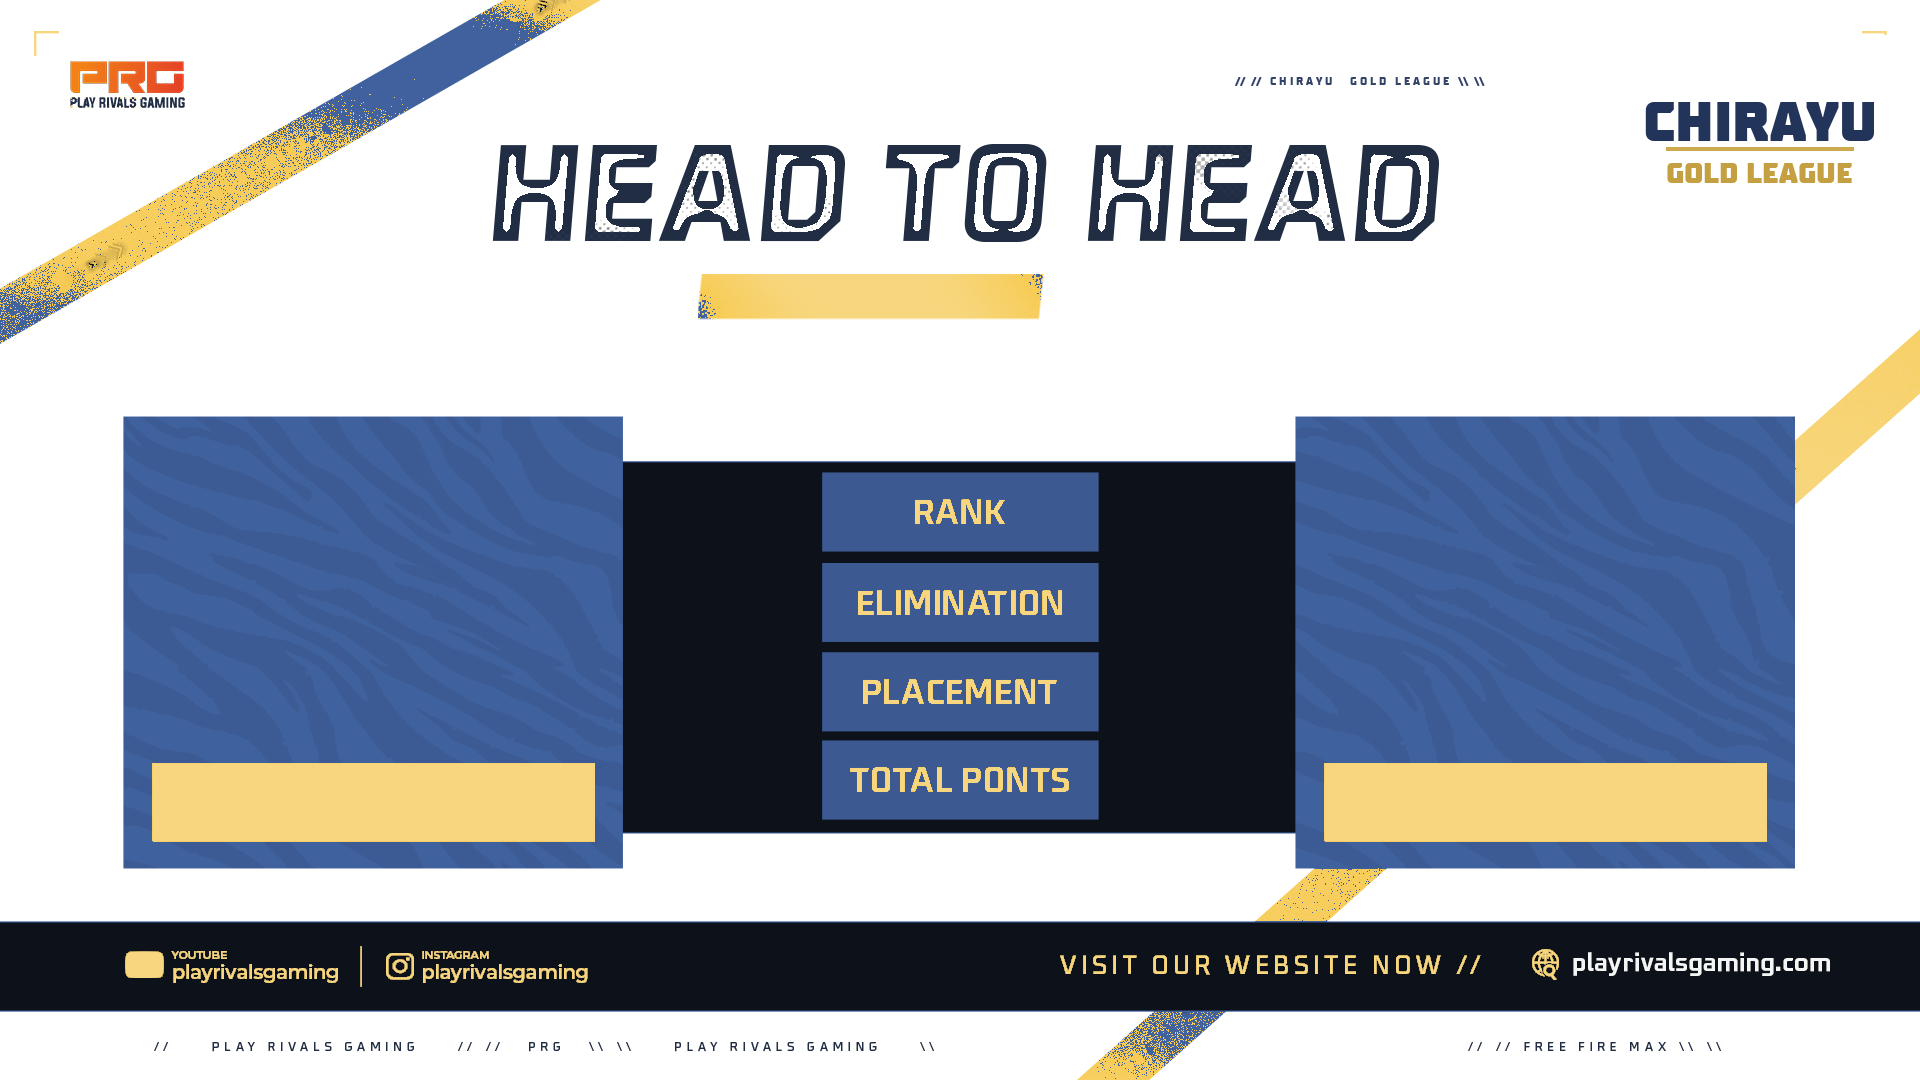
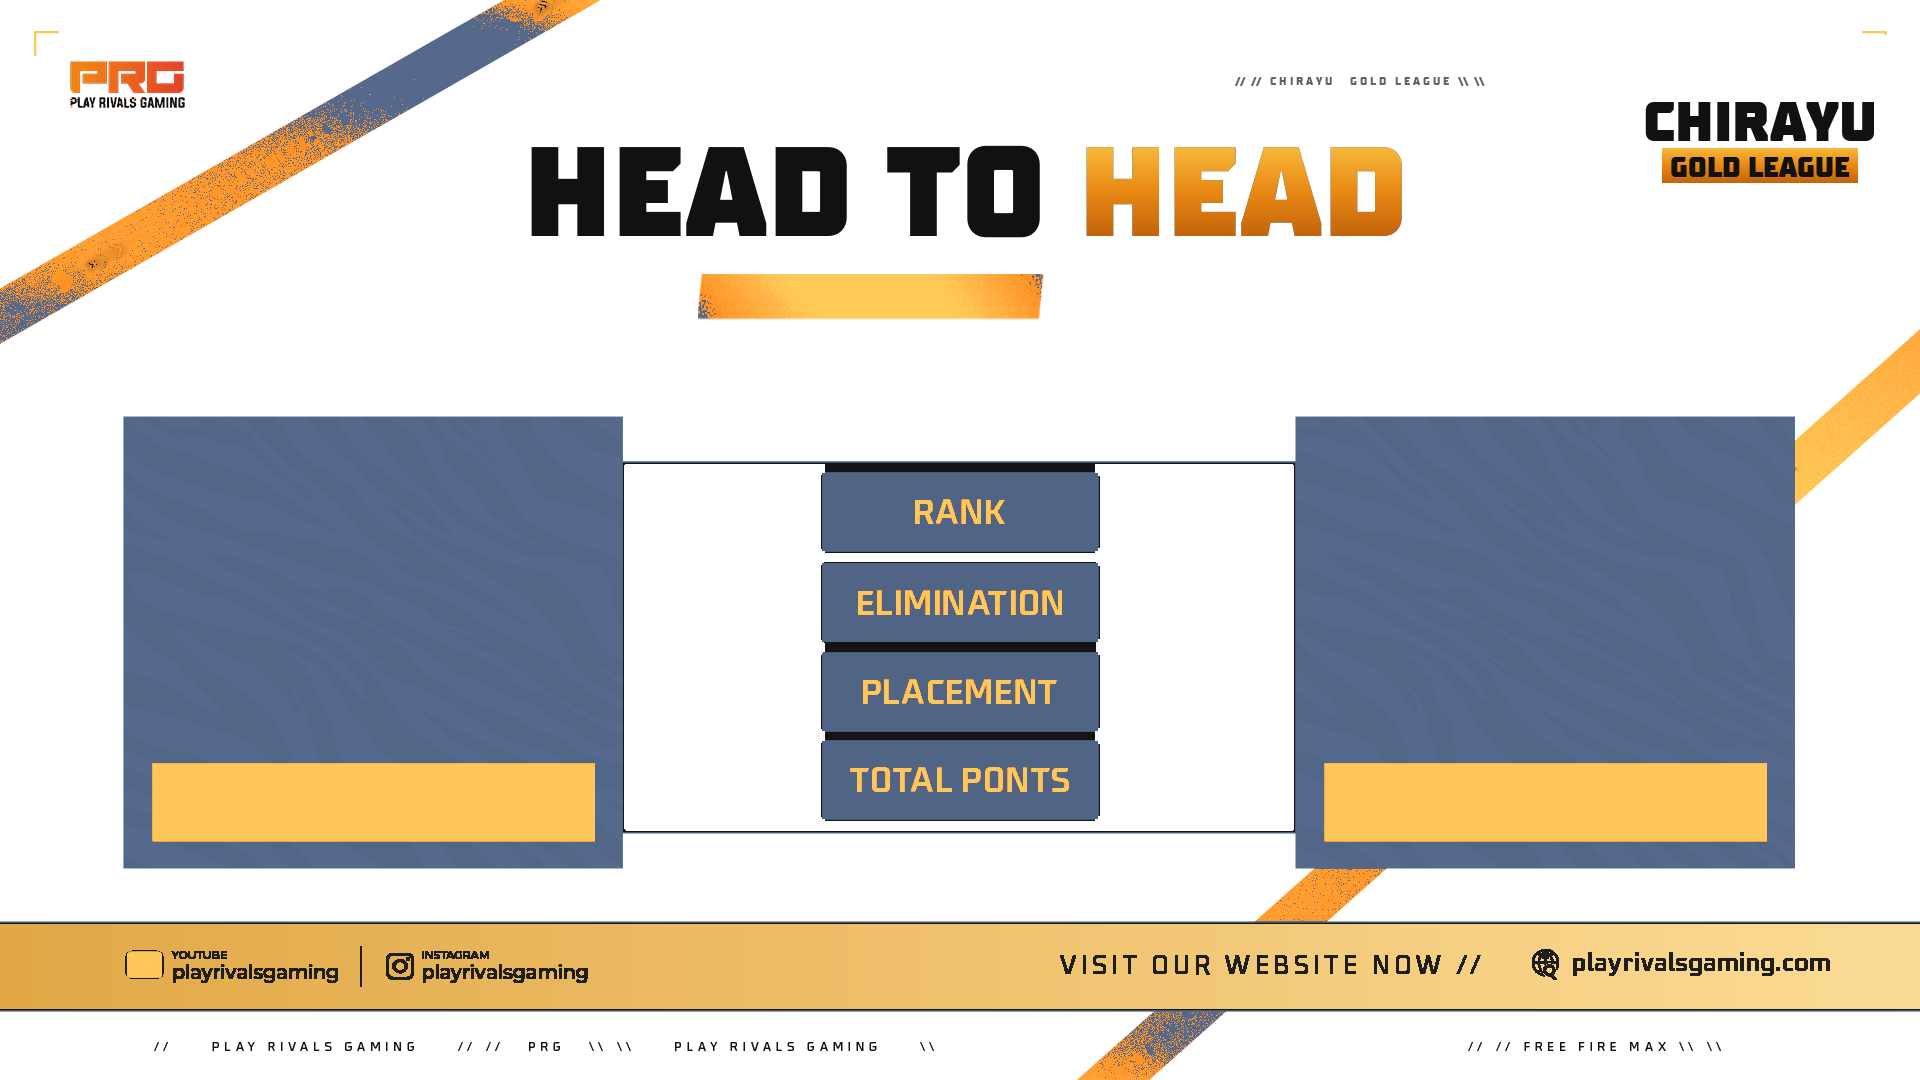
Chirayu Gold League in the league's own look
From its Overall Standings screen: white rows edged in gold, slate navy
cells with white type, gold-brown figures, orange-gold highlights (TOTAL
cell, name bars), black titles with the last word in orange-gold, a gold
ticker. Art regenerated from the SS3 package (same files, same
geometry); kit and page inks to match; alive rows white to the slash,
legend redrawn.

diff --git a/overlay/ff_theme.css b/overlay/ff_theme.css
@@ -51,19 +51,24 @@ body.still *{animation:none !important;transition:none !important;}
 .ss3 .ff-text{color:#fff;font-family:'SMXB',Arial,sans-serif;text-transform:uppercase;}
 .ss3 .ff-muted{color:#ffd9d0;font-family:'SMXB',Arial,sans-serif;text-transform:uppercase;}
 
-/* ---- CHIRAYU GOLD LEAGUE: the SS3 cards in the Chirayu colours ----
-   Same layout; the frame and zebra are the SS3 ones recoloured (navy /
-   slate blue for the red, gold for the yellow), the title navy because
-   it sits on the event's light background. */
-body.chirayu{ --ss3-red:#3e5a96; --ss3-label:#2b4272; --ss3-yellow:#f3d77e; --ss3-bar:#f3d98a; --ss3-black:#131d32; }
+/* ---- CHIRAYU GOLD LEAGUE: the SS3 layouts in the league's own look ----
+   From its Overall Standings screen: white rows edged in gold, slate navy
+   header cells with white type, gold-brown figures, orange-gold gradients
+   for the highlights, titles in black with the last word in orange-gold
+   (ffFitTitle wraps it in .w2). */
+body.chirayu{ --ss3-red:#4e6181; --ss3-label:#4e6181; --ss3-yellow:#a8692a; --ss3-bar:#f2b54a; --ss3-black:#ffffff;
+  --cg-gold:linear-gradient(180deg,#f7b83a 0%,#e88914 55%,#c4650c 100%); }
 .chirayu .ff-frame{background-image:url('assets/freefire/kit/chirayu_frame.png');}
-.chirayu .ff-title{
-  background:linear-gradient(180deg,#22345a 0%,#22345a 46%,rgba(34,52,90,0) 82%),
-             radial-gradient(circle,#22345a 0 1.7px,transparent 2.1px) 0 0/7px 7px;
-  -webkit-background-clip:text;background-clip:text;}
-.chirayu .ff-zebra{background:url('assets/freefire/kit/chirayu_zebra.png') center/cover,var(--ss3-red);}
-.chirayu .ff-black{box-shadow:inset 0 0 0 3px #3e5a96;}
-.chirayu .ff-muted{color:#c9d5ea;}
+.chirayu .ff-title{font-family:'SMBlack',Arial,sans-serif;font-style:normal;color:#111;background:none;
+  -webkit-background-clip:border-box;background-clip:border-box;letter-spacing:0;}
+.chirayu .ff-title .w2{background:var(--cg-gold);-webkit-background-clip:text;background-clip:text;color:transparent;}
+.chirayu .ff-zebra{background:url('assets/freefire/kit/chirayu_zebra.png') center/cover,#4e6181;}
+.chirayu .ff-black{background:#fff;box-shadow:inset 4px 0 0 #e3a23a, 0 2px 10px rgba(20,30,50,.14);}
+.chirayu .ff-yellow{background:linear-gradient(90deg,#e08a1e 0%,#f6c45c 55%,#fde3a0 100%);color:#111;}
+.chirayu .ff-label{background:#4e6181;color:#fff;}
+.chirayu .ff-num{color:#a8692a;}
+.chirayu .ff-text{color:#262626;}
+.chirayu .ff-muted{color:#7a8597;}
 
 /* ---- ARROW ---- */
 .arrow .ff-frame{position:absolute;left:150px;top:100px;width:1620px;height:880px;

diff --git a/overlay/freefire_lobby_status.html b/overlay/freefire_lobby_status.html
@@ -93,17 +93,17 @@
                                       rgba(255,30,30,.15) 62%, #ff1e1e 100%);
   }
   body[data-theme="ss3"] .slot{ border-color:rgba(255,30,30,.35); }
-  body.chirayu[data-theme="ss3"]{ --amber:#f3d77e; --amber-deep:#cdaa4e; --green-0:#1c2b4d; --green-1:#0f1728;
+  body.chirayu[data-theme="ss3"]{ --amber:#f6c45c; --amber-deep:#e8a33a; --green-0:#4e6181; --green-1:#33415d;
     --panel:#17233d; --panel-lit:#22345a; --muted:#9fb0cc; }
   body.chirayu[data-theme="ss3"] #stage{
     background:
-      radial-gradient(120% 180% at 50% 0%, rgba(62,90,150,.45) 0%, rgba(15,23,40,0) 68%),
-      repeating-linear-gradient(115deg, rgba(127,151,187,.07) 0 2px, transparent 2px 18px),
+      radial-gradient(120% 180% at 50% 0%, rgba(110,130,165,.40) 0%, rgba(51,65,93,0) 68%),
+      repeating-linear-gradient(115deg, rgba(255,255,255,.05) 0 2px, transparent 2px 18px),
       linear-gradient(180deg, var(--green-0) 0%, var(--green-1) 100%);
-    border-top-color:#cdaa4e;
+    border-top-color:#e8a33a;
   }
   body.chirayu[data-theme="ss3"] #stage::before{
-    background:linear-gradient(90deg, #cdaa4e 0%, rgba(205,170,78,.15) 38%, rgba(205,170,78,.15) 62%, #cdaa4e 100%);
+    background:linear-gradient(90deg, #e8a33a 0%, rgba(232,163,58,.15) 38%, rgba(232,163,58,.15) 62%, #e8a33a 100%);
   }
   body.chirayu[data-theme="ss3"] .slot{ border-color:rgba(127,151,187,.35); }
   /* Tactic Sans runs wider than Supermolot: "YET TO JOIN" was clipped. */

diff --git a/overlay/freefire_map.html b/overlay/freefire_map.html
@@ -35,7 +35,7 @@
     --accent:#f7941d; --zone:#ffffff; --next:#ffe97a; --pin:#ee1c25;
   }
   body.ss3{ --surface:#0e0e0e; --accent:#ff1e1e; --text-3:#b39b9b; }
-  body.ss3.chirayu{ --surface:#131d32; --accent:#d4b25a; --next:#f3d77e; --text-2:#c9d5ea; --text-3:#9fb0cc; }
+  body.ss3.chirayu{ --surface:#33415d; --accent:#e8a33a; --next:#f6c45c; --text-2:#dbe2ee; --text-3:#aeb9cc; }
   body.ss3, body.ss3 svg text, body.tpl-ss3, body.tpl-ss3 svg text{ font-family:'TacticSans',Arial,sans-serif !important; }
 
   html,body{margin:0;padding:0;background:transparent;overflow:hidden;}
@@ -62,9 +62,9 @@
                repeating-linear-gradient(115deg, rgba(255,30,30,.05) 0 2px, transparent 2px 22px), var(--surface);
   }
   body.ss3.chirayu #panel.bg{
-    background:radial-gradient(120% 90% at 50% 0%, rgba(62,90,150,.45) 0%, rgba(19,29,50,0) 60%),
-               repeating-linear-gradient(115deg, rgba(127,151,187,.06) 0 2px, transparent 2px 22px), var(--surface);
-    border-top-color:#cdaa4e;
+    background:radial-gradient(120% 90% at 50% 0%, rgba(110,130,165,.40) 0%, rgba(51,65,93,0) 60%),
+               repeating-linear-gradient(115deg, rgba(255,255,255,.05) 0 2px, transparent 2px 22px), var(--surface);
+    border-top-color:#e8a33a;
   }
   #panel:not(.bg) .side{ text-shadow:0 2px 6px rgba(0,0,0,.85); }
   #stdMap{width:808px;height:808px;flex:0 0 808px;position:relative;}

diff --git a/overlay/freefire_alive_status.html b/overlay/freefire_alive_status.html
@@ -879,15 +879,18 @@ const LAYOUTS = {
    SS3's Graphic Fixing nudges (placementKey "ss3"): same geometry. */
 LAYOUTS.CHIRAYU = (() => {
   const c = JSON.parse(JSON.stringify(LAYOUTS.ss3));
-  c.accent = "#d4b25a"; c.accentGlow = "rgba(212, 178, 90, 0.9)";
-  c.accentFlash = ["rgba(212, 178, 90, 0)", "rgba(212, 178, 90, 0.5)"];
-  c.pipBars = Object.assign({}, c.pipBars, { dead: "#5d6f8f" });
-  if(c.elimCard) c.elimCard.rank.ink = "#f3d77e";
+  // the league's look: rank and name on the white part of the row in its
+  // gold-brown, the eliminations white on the slate
+  c.rankInk = "#7d6545"; c.nameInk = "#9a6428"; c.killsInk = "#ffffff";
+  c.accent = "#e8a33a"; c.accentGlow = "rgba(232, 163, 58, 0.9)";
+  c.accentFlash = ["rgba(232, 163, 58, 0)", "rgba(232, 163, 58, 0.5)"];
+  c.pipBars = Object.assign({}, c.pipBars, { dead: "#2c3850", unknown: "rgba(255,255,255,0.32)" });
+  if(c.elimCard) c.elimCard.rank.ink = "#111111";
   if(c.achievement){
-    c.achievement.title.ink = "#22345a";
-    c.achievement.label.ink = "#f3d77e";
+    c.achievement.title.ink = "#111111";
+    c.achievement.label.ink = "#f6c45c";
   }
-  if(c.top4) c.top4.win.ink = "#22345a";
+  if(c.top4) c.top4.win.ink = "#111111";
   return c;
 })();
 

diff --git a/overlay/freefire_match_insights.html b/overlay/freefire_match_insights.html
@@ -87,10 +87,10 @@
   body.air.ss3 table, body.air.ss3 th{font-family:'SMXB',Arial,sans-serif;}
   body.air.arrow table, body.air.arrow th{font-family:'SMBI',Arial,sans-serif;}
   body.air.ss3 .hs, body.air.ss3 .gloo{color:#fff694;} body.air.ss3 .team, body.air.ss3 th{color:#ffd0c8;}
-  body.air.ss3.chirayu .card{background:#131d32;box-shadow:inset 0 0 0 3px #3e5a96;}
-  body.air.ss3.chirayu .card h2{background:#2b4272;color:#f3d77e;}
-  body.air.ss3.chirayu .hs, body.air.ss3.chirayu .gloo{color:#f3d77e;}
-  body.air.ss3.chirayu .team, body.air.ss3.chirayu th{color:#c9d5ea;}
+  body.air.ss3.chirayu .card{background:#fff;box-shadow:inset 4px 0 0 #e3a23a, 0 2px 10px rgba(20,30,50,.14);color:#262626;}
+  body.air.ss3.chirayu .card h2{background:#4e6181;color:#fff;}
+  body.air.ss3.chirayu .hs, body.air.ss3.chirayu .gloo{color:#a8692a;}
+  body.air.ss3.chirayu .team, body.air.ss3.chirayu th{color:#5e6b80;}
   body.air.arrow .hs, body.air.arrow .gloo{color:#ffb21e;} body.air.arrow .team, body.air.arrow th{color:#cfe3c5;}
   /* the circle map: square, inside its panel */
   body.air canvas{margin:0 auto;border:none;}

diff --git a/overlay/freefire_team_graphs.html b/overlay/freefire_team_graphs.html
@@ -73,15 +73,15 @@
     border-top-color:#ff1e1e;
   }
   body.ss3 .kicker::before{ background:#ff1e1e; }
-  body.ss3.chirayu{ --surface:#131d32; --amber:#f3d77e; --grid:#2a3a5c; --text-3:#9fb0cc; }
+  body.ss3.chirayu{ --surface:#33415d; --amber:#f6c45c; --grid:#4a5a78; --text-3:#aeb9cc; }
   body.ss3.chirayu #panel.bg{
     background:
-      radial-gradient(120% 90% at 50% 0%, rgba(62,90,150,.45) 0%, rgba(19,29,50,0) 60%),
-      repeating-linear-gradient(115deg, rgba(127,151,187,.06) 0 2px, transparent 2px 22px),
+      radial-gradient(120% 90% at 50% 0%, rgba(110,130,165,.40) 0%, rgba(51,65,93,0) 60%),
+      repeating-linear-gradient(115deg, rgba(255,255,255,.05) 0 2px, transparent 2px 22px),
       var(--surface);
-    border-top-color:#cdaa4e;
+    border-top-color:#e8a33a;
   }
-  body.ss3.chirayu .kicker::before{ background:#cdaa4e; }
+  body.ss3.chirayu .kicker::before{ background:#e8a33a; }
   body.ss3 .title{ font-style:normal; }
 
   html,body{margin:0;padding:0;background:transparent;overflow:hidden;}

diff --git a/overlay/freefire_scoreboard.html b/overlay/freefire_scoreboard.html
@@ -86,6 +86,11 @@
   /* the top three */
   .ss3 .th-row.top .th-rk{background:var(--ss3-bar);color:#111;}
   .ss3 .th-row:not(.top) .th-rk{background:var(--ss3-label);color:var(--ss3-yellow);}
+  /* CHIRAYU: the TOTAL cell shades into orange-gold at its right, as the
+     league's own table does; the slate rank cells take white figures */
+  .chirayu .th-row .th-n.tot{color:#6e3a08;background:linear-gradient(90deg,rgba(255,255,255,0) 0%,#f6c45c 62%,#e08a1e 100%);}
+  .chirayu .th-row:not(.top) .th-rk{color:#fff;}
+  .chirayu .th-row:nth-of-type(even){background:rgba(78,97,129,.06);}
   .arrow .th-row.top .th-rk{color:var(--ar-gold);}
   .th-nodata{position:absolute;left:0;top:520px;width:1920px;text-align:center;font-family:'SMXB',Arial,sans-serif;font-size:30px;color:#fff;
              text-shadow:0 2px 8px rgba(0,0,0,.8);}

diff --git a/overlay/ff_theme.js b/overlay/ff_theme.js
@@ -110,6 +110,16 @@ function ffFitTitle(el, again){
     // fonts after the first check.
     setTimeout(() => ffFitTitle(el, true), 1200);
   }
+  // CHIRAYU: the last word in orange-gold, the rest black.
+  const words = (el.textContent || "").trim().split(/\s+/);
+  const gold = document.body.classList.contains("chirayu") && words.length > 1;
+  if(gold && !el.querySelector(".w2")){
+    el.textContent = words.slice(0, -1).join(" ") + " ";
+    const w = document.createElement("span"); w.className = "w2"; w.textContent = words[words.length - 1];
+    el.appendChild(w);
+  } else if(!gold && el.querySelector(".w2")){
+    el.textContent = words.join(" ");
+  }
   el.style.fontSize = "";
   const r = document.createRange();
   r.selectNodeContents(el);

diff --git a/overlay/freefire_game_summary.html b/overlay/freefire_game_summary.html
@@ -47,6 +47,9 @@
   .tile .v{position:absolute;left:0;top:46px;width:100%;height:76px;font-size:56px;}
   .ss3 .tile .k{height:38px;font-size:20px;}
   .ss3 .tile .v{top:38px;height:58px;font-size:44px;}
+  /* CHIRAYU: white value boxes edged in gold, as its table rows */
+  .chirayu .tile{background:#fff !important;box-shadow:inset 4px 0 0 #e3a23a, 0 2px 10px rgba(20,30,50,.14);}
+  .chirayu #booyahNums .v{color:#f6c45c;}
   /* A team with no logo yet: its short name, large, where the logo goes. */
   .noLogo{display:flex;align-items:center;justify-content:center;font-family:'SMBlack',Arial,sans-serif;color:#fff;
           text-transform:uppercase;text-shadow:0 4px 0 rgba(0,0,0,.25);}

diff --git a/overlay/freefire_player_h2h.html b/overlay/freefire_player_h2h.html
@@ -48,9 +48,9 @@
          font-family:'SMBlack',Arial,sans-serif;font-size:19px;letter-spacing:.14em;color:#fff694;background:#000;
          text-transform:uppercase;white-space:nowrap;}
   #scope:empty{display:none;}
-  body.chirayu .val{color:#f3d77e;}
-  body.chirayu .val.lead{text-shadow:0 0 14px rgba(243,215,126,.55);}
-  body.chirayu #scope{color:#f3d77e;background:#131d32;}
+  body.chirayu .val{color:#a8692a;}
+  body.chirayu .val.lead{color:#e88914;text-shadow:none;}
+  body.chirayu #scope{color:#fff;background:#4e6181;}
 
   /* ---- ARROW: the same layout drawn from the theme kit -- green board,
      satin plates for the names and the four labels -- since the art is

diff --git a/overlay/freefire_headshot_hunter.html b/overlay/freefire_headshot_hunter.html
@@ -54,7 +54,7 @@
   #tName{ left:60px; top:607px; width:238px; height:42px; font-size:26px; white-space:nowrap; }
   .ss3 #tTitle, .ss3 #tValue, .ss3 #tName{ font-family:'SMBlack',Arial,sans-serif; }
   .ss3 #tLabel{ font-family:'SMXB',Arial,sans-serif; }
-  .chirayu #tTitle{ color:#22345a !important; } .chirayu #tLabel{ color:#f3d77e !important; }
+  .chirayu #tTitle{ color:#111 !important; } .chirayu #tLabel{ color:#f6c45c !important; }
   .ss3 #tTitle{ color:#ff1810; } .ss3 #tValue{ color:#fff; } .ss3 #tLabel{ color:#fff894; } .ss3 #tName{ color:#111; }
   /* ARROW draws what the SS3 art carries */
   #aPanel, #aTab, #aPhotoBox, #aPlate, #aLogoBox{ display:none; }

diff --git a/overlay/freefire_booyah_stats.html b/overlay/freefire_booyah_stats.html
@@ -67,6 +67,9 @@
   #match{left:1037px;top:240px;width:300px;height:36px;font-family:'TacticSans',Arial,sans-serif;font-size:35px;color:#fff;
          text-transform:uppercase;white-space:nowrap;}
   body.chirayu #match{color:#111;}
+  /* CHIRAYU: the stat panels are white -- figures gold-brown, labels dark */
+  body.chirayu .val{color:#a8692a;}
+  body.chirayu .clab, body.chirayu .clab.pet, body.chirayu .lo-text{color:#262626;}
   body.arrow #match{display:none;}
 
   /* player cards */
